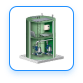
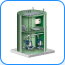
增加抽屉

diff --git a/src/views/Home.vue b/src/views/Home.vue
@@ -3,35 +3,69 @@
     <Header>掌上市政平台</Header>
     <div id="viewDiv" ref="map"></div>
     <div class="sliderbar">
-      <div class="slider" @click="monitorType"></div>
-      <div class="slider"></div>
+      <div class="slider" @click="monitorType">
+        <img src="/imgs/map-type.png" alt="">
+      </div>
+      <div class="slider">
+        <img src="/imgs/report.png" alt="">
+      </div>
     </div>
     <mt-popup v-model="popupVisible" position="right" class="monitor-popup">
       <MonitorPopup>地图类型</MonitorPopup>
       <div class="map-type">
-        <div style="height:65px;width:65px;">
-          <img src="/imgs/line.png" alt="" style="width:100%;">
+        <div class="map-photo" :class="mapActive?'active':''" @click="()=>{mapActive=true}">
+          <img src="/imgs/line.png" alt />
+          <img src="/imgs/map-active.png" alt class="map-active" />
+          <span>管线</span>
+        </div>
+        <div class="map-photo" :class="mapActive?'':'active'" @click="()=>{mapActive=false}">
+          <img src="/imgs/road.png" alt />
+          <img src="/imgs/map-active.png" alt class="map-active" />
+          <span>道路</span>
         </div>
       </div>
       <MonitorPopup>监测点</MonitorPopup>
+      <div class="map-type map-monitor">
+        <div
+          class="map-photo"
+          v-for="(data,index) in datalist"
+          :key="index"
+          :class="index===mapActiveIndex?'active':''"
+          @click="mapActiveClick(index)"
+        >
+          <img :src="data.imgs" alt />
+          <img src="/imgs/map-active.png" alt class="map-active" />
+          <span>{{data.name}}</span>
+        </div>
+      </div>
     </mt-popup>
   </div>
 </template>
  
 <script>
-import Vue from "vue";
 import Header from "../components/Header";
 import esriLoader from "esri-loader";
-import MonitorPopup from './Home/monitor-popup'
+import MonitorPopup from "./Home/monitor-popup";
 export default {
   data() {
     return {
-      popupVisible: true
+      popupVisible: false,
+      mapActive: false,
+      datalist: [
+        { name: "泵站", imgs: "/imgs/pumping.png" },
+        { name: "雨污混排", imgs: "/imgs/sewage.png" },
+        { name: "积水", imgs: "/imgs/rain.png" },
+        { name: "井盖", imgs: "/imgs/manhole.png" }
+      ],
+      mapActiveIndex: 0
     };
   },
   methods: {
     monitorType() {
       this.popupVisible = true;
+    },
+    mapActiveClick(index) {
+      this.mapActiveIndex = index;
     }
   },
   mounted() {
@@ -80,24 +114,67 @@ export default {
   right: 0.2rem;
   top: 1rem;
   .slider {
-    width: 0.96rem;
-    height: 0.96rem;
-    background: rgba(255, 255, 255, 1);
-    box-shadow: 0px 3px 10px rgba(228, 239, 251, 1);
-    opacity: 1;
-    border-radius: 0.48rem;
-    margin-top: 0.2rem;
+    img{
+      width:1.5rem;
+    }
   }
 }
-.monitor-popup{
-  width:4.76rem;
-  height:calc(100vh - 1.84rem);
-  background:white;
-  top:49%;
-  .map-type{
-    height:2.2rem;
-    padding-top:0.4rem;
-    box-sizing:border-box;
+.monitor-popup {
+  width: 4.76rem;
+  height: calc(100vh - 1.84rem);
+  background: white;
+  top: 49%;
+  .map-type {
+    height: 2.2rem;
+    padding-top: 0.4rem;
+    box-sizing: border-box;
+    display: flex;
+    justify-content: space-around;
+    flex-wrap: wrap;
+    .map-photo {
+      position: relative;
+      width: 1.3rem;
+      border-radius: 7px;
+      text-align: center;
+      img:first-child {
+        width: 1.3rem;
+        display: block;
+        margin: 0 auto;
+      }
+      .map-active {
+        position: absolute;
+        display: none;
+        bottom: 0.6rem;
+        left: 50%;
+        transform: translateX(-50%);
+      }
+      span {
+        color: rgba(163, 165, 167, 1);
+        position: relative;
+        top: 0.1rem;
+      }
+    }
+    .active {
+      .map-active {
+        display: block;
+      }
+      span {
+        color: black;
+      }
+    }
+  }
+  .map-monitor {
+    height: auto;
+    padding: 0;
+    .map-photo {
+      width: 50%;
+      margin-top: 0.4rem;
+    }
+    .active {
+      .map-active {
+        bottom: 0.5rem;
+      }
+    }
   }
 }
 </style>
